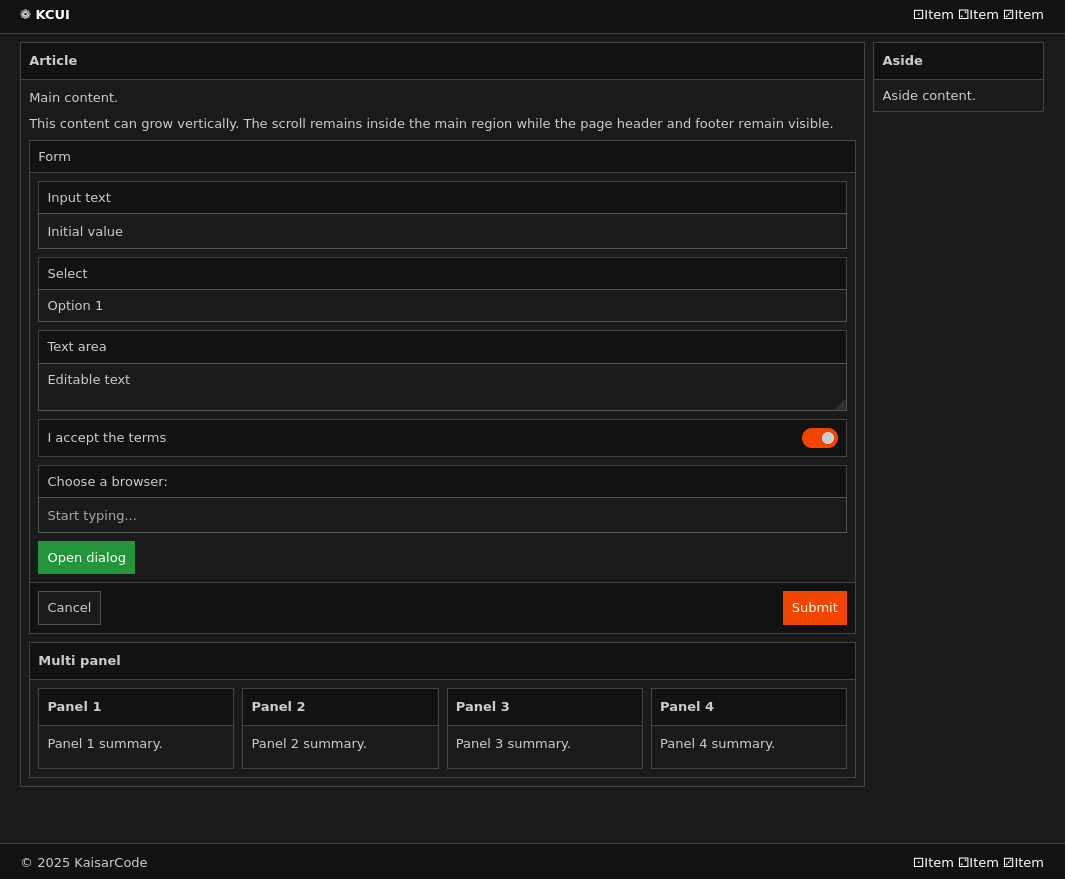
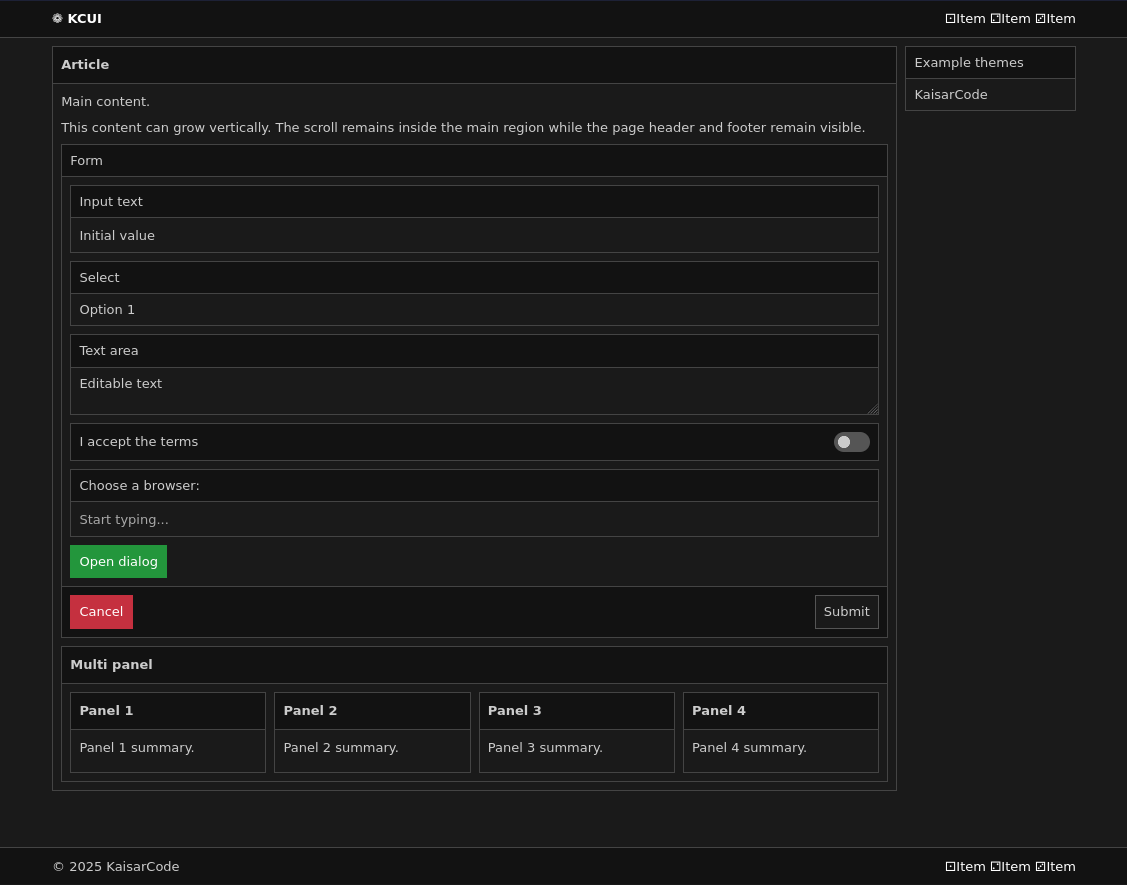
Update screenshot

diff --git a/demo.html b/demo.html
@@ -144,7 +144,7 @@
                     </article>
 
                     <aside class="pnl col2">
-                        <label class="hdr" for="theme-select">Color theme</label>
+                        <label class="hdr" for="theme-select">Example themes</label>
                         <select class="bdy" id="theme-select">
                             <option value="">KaisarCode</option>
                             <option value="noir">Noir</option>
